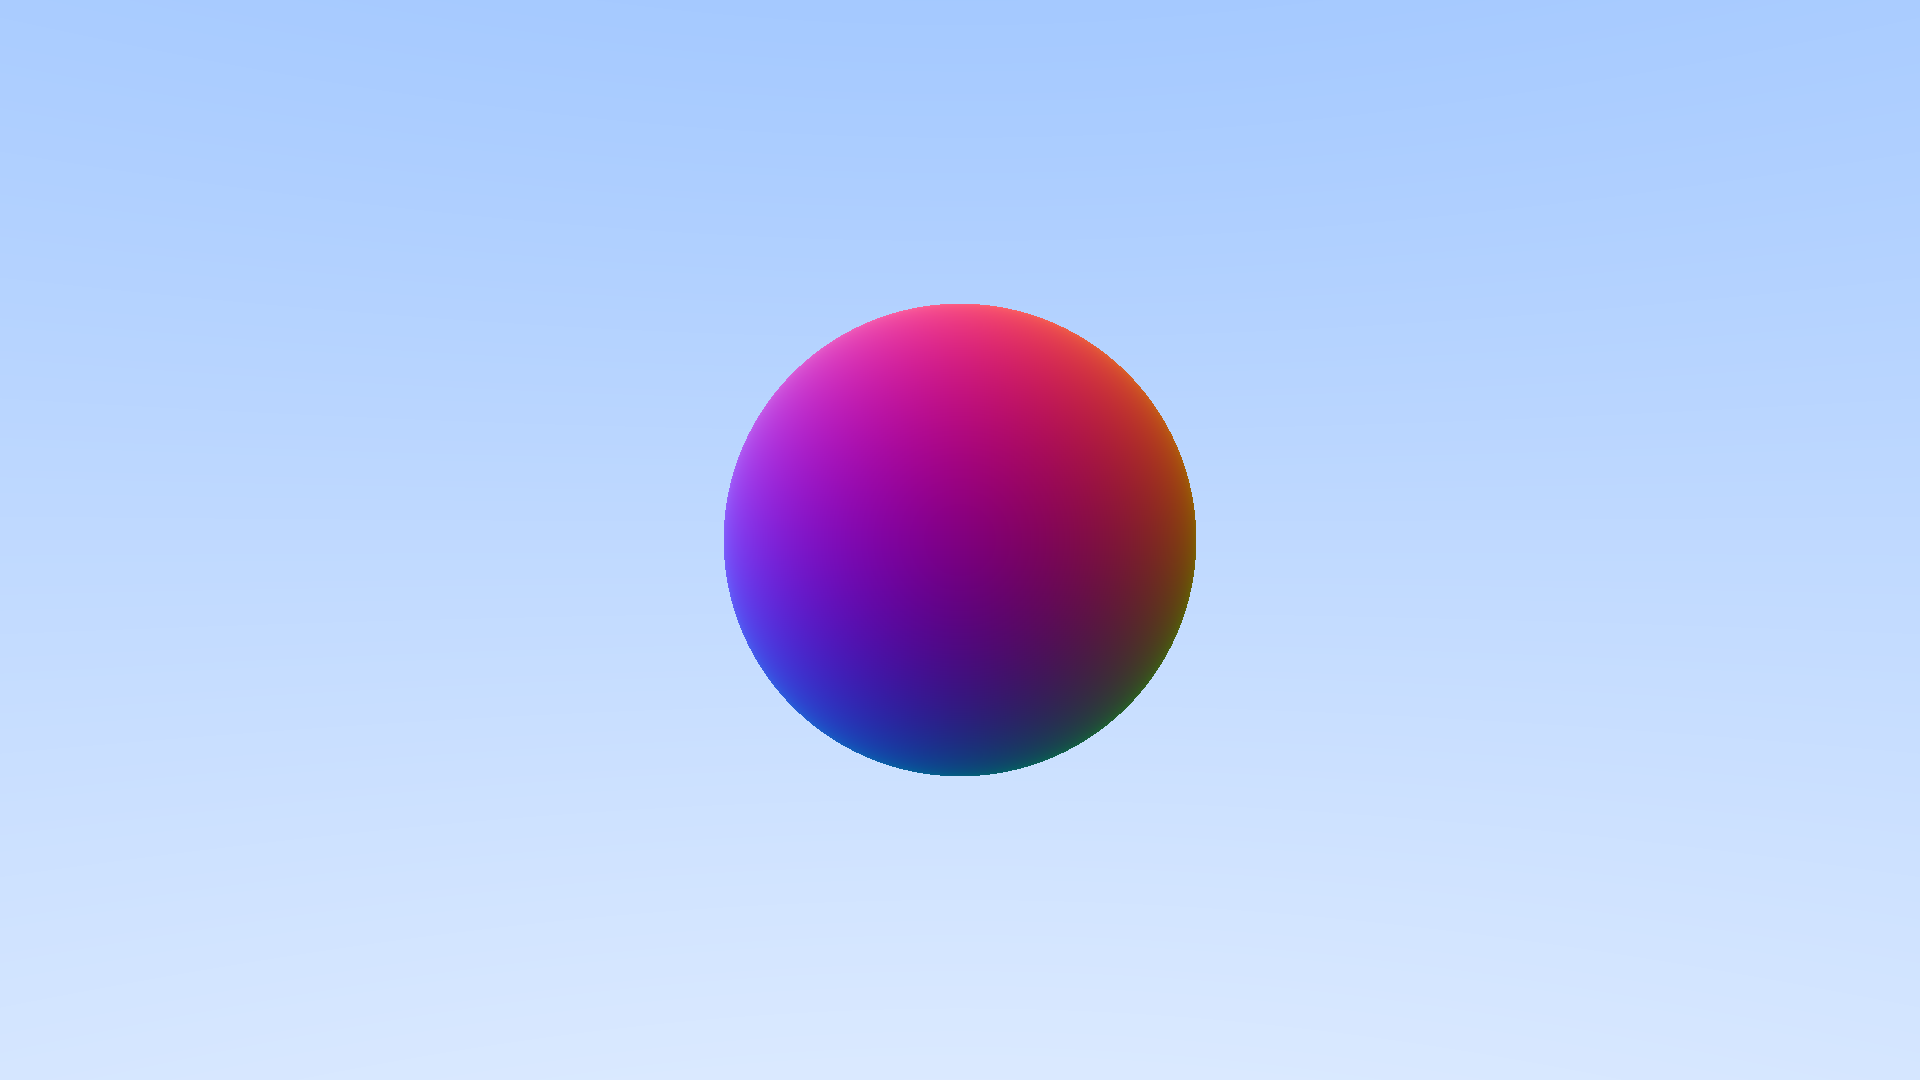
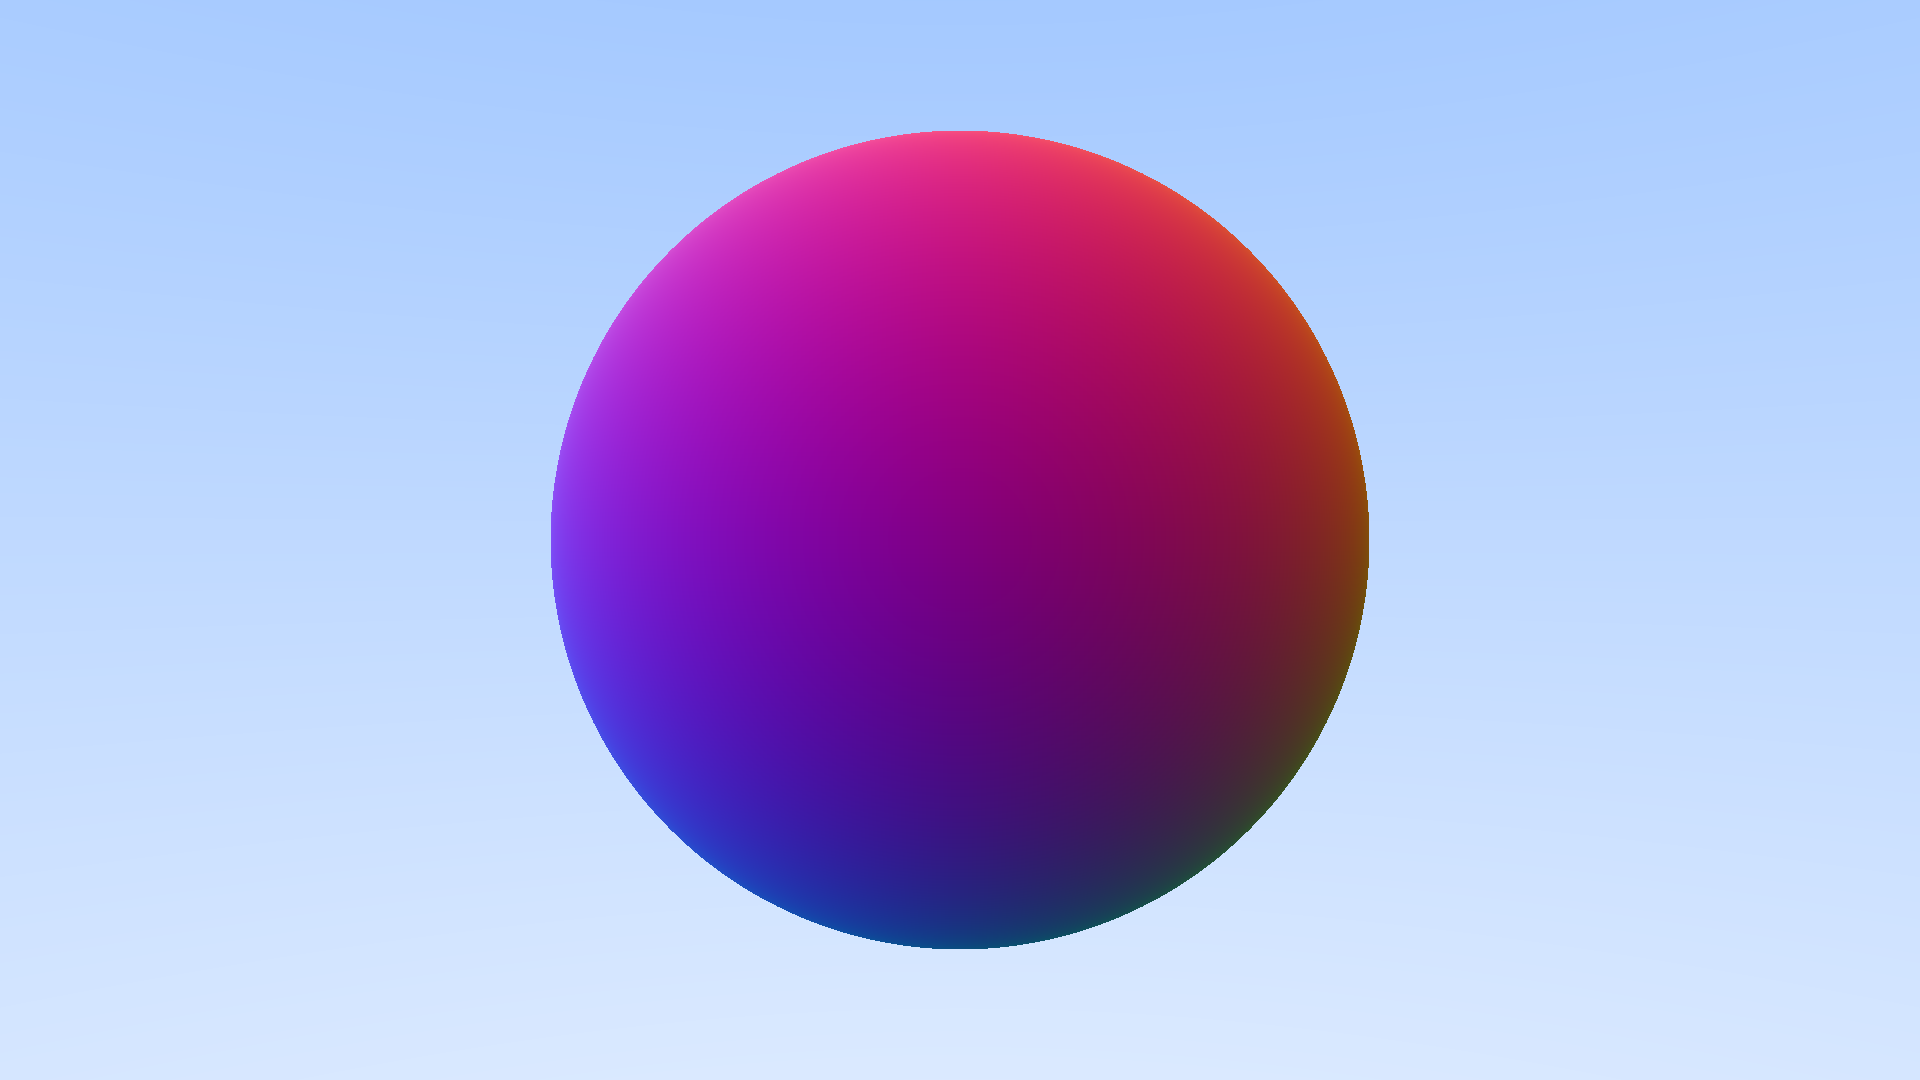
Placed the sphere closer to camera

Changed region(s): [[0.2812, 0.1222, 0.7188, 0.8861]]

diff --git a/src/main.rs b/src/main.rs
@@ -10,7 +10,7 @@ use raytracer::{
 
 fn main() -> Result<()> {
     let shapes: Vec<Box<dyn Hittable>> = vec![Box::new(Sphere::new(
-        Point::new(5.0, 0.0, 0.0),
+        Point::new(3.0, 0.0, 0.0),
         1.0,
         Color::new(0.9, 0.3, 0.3),
     ))];
